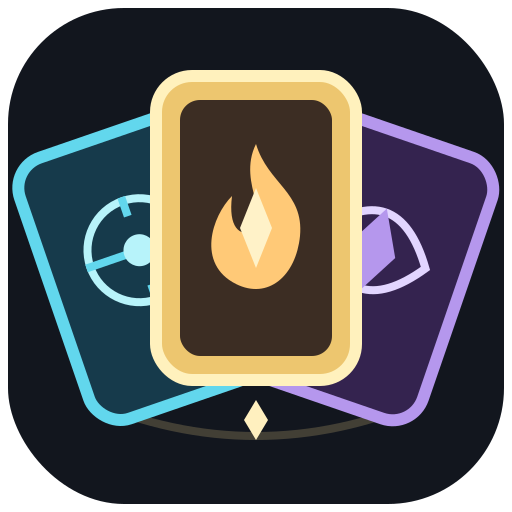
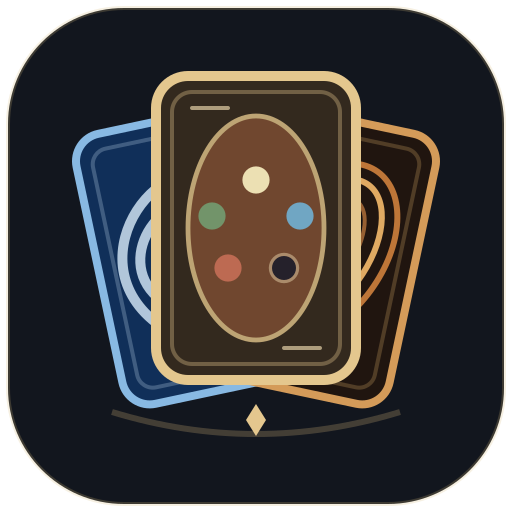
Unify card-back navigation and animated brand; restore Pokémon ambient art

diff --git a/brand.js b/brand.js
@@ -1,4 +1,40 @@
-// Canonical app mark; icon.svg and install PNGs are built from the same SVG.
-const SVG='<svg xmlns="http://www.w3.org/2000/svg" viewBox="0 0 128 128" class="stashy-logo" aria-hidden="true"><rect class="brand-backplate" x="2" y="2" width="124" height="124" rx="29" fill="#12161e"/><path d="M22 100 Q64 118 106 100" fill="none" stroke="#edd18c" stroke-opacity=".22" stroke-width="2"/><g class="brand-card brand-left" transform="rotate(-19 64 98)" style="--fan-from:-19deg;--fan-to:-34deg"><rect x="24" y="25" width="48" height="69" rx="8" fill="#163a4b" stroke="#62d7ed" stroke-width="3"/><circle cx="48" cy="55" r="13" fill="none" stroke="#b7f3fa" stroke-width="2"/><path d="M34 55h28m-14-14v5m0 18v5" stroke="#62d7ed" stroke-width="2"/><circle cx="48" cy="55" r="4" fill="#b7f3fa"/></g><g class="brand-card brand-right" transform="rotate(19 64 98)" style="--fan-from:19deg;--fan-to:34deg"><rect x="56" y="25" width="48" height="69" rx="8" fill="#34234f" stroke="#b597ed" stroke-width="3"/><path d="M66 55q14-20 28 0-14 20-28 0z" fill="none" stroke="#e2d5ff" stroke-width="2"/><path d="m80 44 6 11-6 11-6-11z" fill="#b597ed"/></g><g class="brand-card brand-center" style="--fan-from:0deg;--fan-to:0deg"><rect x="39" y="19" width="50" height="76" rx="9" fill="#edc66f" stroke="#fff1bd" stroke-width="3"/><rect x="45" y="25" width="38" height="64" rx="5" fill="#3c2d23"/><path d="M64 36c3 10 12 12 11 23-1 10-8 16-16 12-10-5-6-17-1-22-1 8 2 10 5 9 6-2-4-12 1-22z" fill="#ffc977"/><path d="m64 47 4 10-4 10-4-10z" fill="#fff2c8"/></g><path d="m64 100 3 5-3 5-3-5z" fill="#fff0bf"/></svg>';
-const animatedSVG=SVG.replace('</svg>',SVG.match(/<g class="brand-card brand-left"[\s\S]*?<\/g>/)[0].replace('brand-left','brand-cycle-left').replace('brand-card ','brand-cycle ')+SVG.match(/<g class="brand-card brand-right"[\s\S]*?<\/g>/)[0].replace('brand-right','brand-cycle-right').replace('brand-card ','brand-cycle ')+'</svg>');
-export const brandMark=(mode="")=>animatedSVG.replace('class="stashy-logo"','class="stashy-logo '+mode.replace(/[^a-z -]/g,"")+' brand-breathing"');
+// One original vector emblem for the app, assistant and install artwork.
+// Motifs echo the three games without squeezing their wordmarks into an icon.
+const SVG = `<svg xmlns="http://www.w3.org/2000/svg" viewBox="0 0 128 128" class="stashy-logo" aria-hidden="true">
+<rect class="brand-backplate" x="2" y="2" width="124" height="124" rx="29" fill="#12161e" stroke="#d8bb7c" stroke-opacity=".22"/>
+<path d="M28 103Q64 114 100 103" fill="none" stroke="#d8bb7c" stroke-opacity=".25" stroke-width="1.5"/>
+<g class="brand-card brand-left" transform="translate(8 0) rotate(-12 64 98)" style="--fan-from:-12deg;--fan-to:-12deg">
+<rect x="24" y="25" width="48" height="69" rx="7" fill="#102f59" stroke="#88b9e3" stroke-width="2"/>
+<rect x="28" y="29" width="40" height="61" rx="4" fill="none" stroke="#d3e9fa" stroke-opacity=".25"/>
+<path d="M37 76C17 56 45 30 59 43C77 60 51 86 37 68C28 56 45 40 55 50" fill="none" stroke="#d9ecfa" stroke-opacity=".8" stroke-width="2.5"/>
+<circle cx="48" cy="59" r="9" fill="#e5e4db" stroke="#142238" stroke-width="1.5"/>
+<path d="M39 59a9 9 0 0 1 18 0z" fill="#b94e48"/>
+<path d="M39 59h18" stroke="#142238" stroke-width="2"/>
+<circle cx="48" cy="59" r="3" fill="#eef4f7" stroke="#142238" stroke-width="1.5"/>
+</g>
+<g class="brand-card brand-right" transform="translate(-8 0) rotate(12 64 98)" style="--fan-from:12deg;--fan-to:12deg">
+<rect x="56" y="25" width="48" height="69" rx="7" fill="#20150f" stroke="#d49b59" stroke-width="2"/>
+<rect x="60" y="29" width="40" height="61" rx="4" fill="none" stroke="#e5b46c" stroke-opacity=".25"/>
+<ellipse cx="80" cy="59" rx="16" ry="25" transform="rotate(24 80 59)" fill="none" stroke="#be7638" stroke-width="1.5"/>
+<ellipse cx="80" cy="59" rx="12" ry="21" transform="rotate(24 80 59)" fill="none" stroke="#e0aa62" stroke-width="1.5"/>
+<ellipse cx="80" cy="59" rx="8" ry="16" transform="rotate(24 80 59)" fill="#100f11" stroke="#976032"/>
+</g>
+<g class="brand-card brand-center" style="--fan-from:0deg;--fan-to:0deg">
+<rect x="39" y="19" width="50" height="76" rx="8" fill="#33291e" stroke="#e4c78e" stroke-width="2.5"/>
+<rect x="43" y="23" width="42" height="68" rx="5" fill="none" stroke="#e4c78e" stroke-opacity=".35"/>
+<ellipse cx="64" cy="57" rx="17" ry="28" fill="#70472f" stroke="#bda474" stroke-width="1.2"/>
+<circle cx="64" cy="45" r="3.4" fill="#ece0b3"/>
+<circle cx="53" cy="54" r="3.4" fill="#72946a"/>
+<circle cx="75" cy="54" r="3.4" fill="#70a6c3"/>
+<circle cx="57" cy="67" r="3.4" fill="#bd6a52"/>
+<circle cx="71" cy="67" r="3.4" fill="#25212b" stroke="#aa8b6b" stroke-width=".8"/>
+<path d="M48 27h9m14 60h9" stroke="#f0dcb1" stroke-opacity=".65" stroke-linecap="round"/>
+</g>
+<path d="m64 101 2.5 4-2.5 4-2.5-4z" fill="#e4c78e"/>
+</svg>`;
+const frontCopy = side => SVG.match(new RegExp(`<g class="brand-card brand-${side}"[\\s\\S]*?<\\/g>`))[0]
+  .replace(`brand-card brand-${side}`, `brand-cycle brand-cycle-${side}`);
+const animatedSVG = SVG.replace('</svg>', `${frontCopy('left')}${frontCopy('right')}</svg>`);
+export const brandStaticMark = () => SVG;
+export const brandMark = (mode = '') => animatedSVG.replace('class="stashy-logo"',
+  `class="stashy-logo ${mode.replace(/[^a-z -]/g, '')} brand-breathing"`);

diff --git a/brand-motion.css b/brand-motion.css
@@ -1,0 +1,56 @@
+/* One compact emblem in the header, Ask, scanner and progress surfaces.
+   Mode classes may size the SVG, but never change its card arrangement. */
+.stashy-logo.brand-breathing { overflow:visible; transform-origin:center; }
+.stashy-logo.brand-breathing .brand-backplate { fill:#12161e; stroke:#edd18c; stroke-opacity:.18; stroke-width:1; }
+.stashy-logo.brand-breathing .brand-card { animation:none; transform-origin:64px 98px; transform-box:view-box; }
+.stashy-logo.brand-breathing .brand-left { transform:translate(8px,0) rotate(-12deg); }
+.stashy-logo.brand-breathing .brand-right { transform:translate(-8px,0) rotate(12deg); }
+.stashy-logo.brand-breathing .brand-center { transform:none; }
+.stashy-logo.brand-breathing .brand-cycle { display:none; pointer-events:none; }
+/* The assistant has an aurora shell; ordinary app navigation keeps its dark plate. */
+:is(.ask-launch,.home-ai-submit),:root[data-theme="light"] :is(.ask-launch,.home-ai-submit) {
+  color:#29243a;
+  background:linear-gradient(115deg,#dfF3ff,#ede4ff,#fff1ce,#dff3ff);
+  background-size:300% 100%;
+  border:1px solid #e4c78e;
+  box-shadow:inset 0 1px 0 #fff9,0 0 12px #c4b2ef30;
+}
+:is(.ask-launch,.home-ai-submit):hover { color:#29243a; border-color:#fff1ce; }
+:is(.ask-launch,.home-ai-submit):focus-visible { outline:2px solid var(--gold); outline-offset:3px; }
+@media (prefers-reduced-motion:no-preference) {
+  :is(.ask-launch,.home-ai-submit) { animation:brand-ai-aurora 7s ease-in-out infinite; }
+  .stashy-logo.brand-breathing { animation:brand-compact-breathe 4.8s ease-in-out infinite; }
+  .stashy-logo.brand-breathing .brand-left { animation:brand-left-rest 18s linear infinite; }
+  .stashy-logo.brand-breathing .brand-right { animation:brand-right-rest 18s linear infinite; }
+  .stashy-logo.brand-breathing .brand-cycle { display:block; transform-origin:64px 98px; transform-box:view-box; opacity:0; }
+  .stashy-logo.brand-breathing .brand-cycle-left { animation:brand-left-front 18s ease-in-out infinite; }
+  .stashy-logo.brand-breathing .brand-cycle-right { animation:brand-right-front 18s ease-in-out infinite; }
+}
+@keyframes brand-ai-aurora { 0%,100% {background-position:0% 50%} 50% {background-position:100% 50%} }
+@keyframes brand-compact-breathe {
+  0%,100% { transform:translateY(0) scale(.98); }
+  50% { transform:translateY(-1px) scale(1.025); }
+}
+/* Hide the matching rear card while its front copy moves: three cards,
+   rather than the old five-card fan with duplicate cards spread out. */
+@keyframes brand-left-rest { 0%,24%,49%,100% {opacity:1} 25%,48% {opacity:0} }
+@keyframes brand-right-rest { 0%,57%,84%,100% {opacity:1} 58%,83% {opacity:0} }
+@keyframes brand-left-front {
+  0%,24%,49%,100% {opacity:0;transform:translate(8px,0) rotate(-12deg)}
+  25%,48% {opacity:1;transform:translate(8px,0) rotate(-12deg)}
+  32%,43% {opacity:1;transform:translate(15px,-4px) rotate(0deg)}
+}
+@keyframes brand-right-front {
+  0%,57%,84%,100% {opacity:0;transform:translate(-8px,0) rotate(12deg)}
+  58%,83% {opacity:1;transform:translate(-8px,0) rotate(12deg)}
+  65%,77% {opacity:1;transform:translate(-17px,-4px) rotate(0deg)}
+}
+@media (prefers-reduced-motion:reduce) {
+  :is(.ask-launch,.home-ai-submit) {animation:none!important;}
+  .stashy-logo.brand-breathing,.stashy-logo.brand-breathing .brand-card,.stashy-logo.brand-breathing .brand-cycle {animation:none!important;}
+  .stashy-logo.brand-breathing .brand-card {opacity:1;}
+  .stashy-logo.brand-breathing .brand-cycle {display:none;}
+}
+@media (forced-colors:active) {
+  :is(.ask-launch,.home-ai-submit) {color:ButtonText!important;background:ButtonFace!important;border-color:ButtonText!important;animation:none!important;}
+}

diff --git a/game-tabs.css b/game-tabs.css
@@ -1,0 +1,68 @@
+/* Shared game navigation: original card-back artwork, cropped away from titles.
+   Keep all sizing in style.css so phone, fold, tablet and scanner layouts agree. */
+.game-tab-mtg { --tab-color:#e1b774; --tab-art:url('./game-tab-mtg.jpg'); --tab-position:50% 65%; --tab-size:115% auto; }
+.game-tab-ygo { --tab-color:#f7ad61; --tab-art:url('./game-tab-ygo.png'); --tab-position:50% 48%; --tab-size:115% auto; }
+.game-tab-ptcg { --tab-color:#ffdc62; --tab-art:url('./game-tab-ptcg.jpg'); --tab-position:50% 53%; --tab-size:155% auto; }
+.game-tabs .game-tab {
+  color:#f1f3f7;
+  background:#151a23;
+  border-color:#ffffff20;
+  box-shadow:inset 0 1px 0 #ffffff0a;
+  text-shadow:0 1px 3px #000,0 0 8px #0009;
+  -webkit-tap-highlight-color:transparent;
+}
+.game-tabs .game-tab::before {
+  background-image:linear-gradient(90deg,#070b12a8,#070b12c7),var(--tab-art);
+  background-size:100% 100%,var(--tab-size);
+  background-position:center,var(--tab-position);
+  background-repeat:no-repeat;
+  opacity:.65;
+  pointer-events:none;
+}
+.game-tabs .game-tab[aria-selected="true"] {
+  color:#fff;
+  background:#151a23;
+  border-color:var(--tab-color);
+  box-shadow:inset 0 1px 0 #ffffff30,inset 0 -1px 0 #0005,0 2px 9px #0003;
+}
+.game-tabs .game-tab[aria-selected="true"]::before {
+  background-image:linear-gradient(90deg,#070b1270,#070b1299),var(--tab-art);
+  opacity:1;
+}
+.game-tabs .game-tab::after {
+  content:"";
+  position:absolute;
+  inset:0;
+  z-index:-1;
+  pointer-events:none;
+  opacity:0;
+  background:linear-gradient(110deg,transparent 25%,#ffffff24 48%,transparent 70%);
+  transform:translateX(-110%);
+}
+.game-tabs .game-tab[aria-selected="true"]::after { animation:game-tab-reveal .55s ease-out both; }
+.game-tabs .game-tab-mark { opacity:.9; }
+.game-tabs .game-tab[aria-selected="true"] .game-tab-mark { opacity:1; }
+.game-tabs .game-tab-light { pointer-events:none; }
+.game-tabs .game-tab:focus-visible { outline:2px solid var(--tab-color); outline-offset:-3px; }
+@media (hover:hover) {
+  .game-tabs .game-tab:hover { color:#fff; border-color:var(--tab-color); background:#151a23; }
+  .game-tabs .game-tab:hover::before { opacity:1; }
+}
+/* Artwork stays dark in light mode, like the physical cards, for white labels. */
+:root[data-theme="light"] .game-tabs .game-tab { color:#f1f3f7; background:#151a23; border-color:#566278; }
+:root[data-theme="light"] .game-tabs .game-tab[aria-selected="true"],
+:root[data-theme="light"] .game-tabs .game-tab:hover { color:#fff; background:#151a23; border-color:var(--tab-color); }
+@keyframes game-tab-reveal {
+  0% { opacity:0; transform:translateX(-110%); }
+  25% { opacity:.8; }
+  100% { opacity:0; transform:translateX(110%); }
+}
+@media (prefers-reduced-motion:reduce) {
+  .game-tabs .game-tab,.game-tabs .game-tab::before { transition:none; }
+  .game-tabs .game-tab[aria-selected="true"]::after { animation:none; }
+}
+@media (forced-colors:active) {
+  .game-tabs .game-tab::before,.game-tabs .game-tab::after { display:none; }
+  :root .game-tabs .game-tab { color:ButtonText!important; background:ButtonFace!important; border-color:ButtonText!important; text-shadow:none; }
+  :root .game-tabs .game-tab[aria-selected="true"] { color:HighlightText!important; background:Highlight!important; border-color:Highlight!important; }
+}

diff --git a/app.js b/app.js
@@ -151,7 +151,9 @@ function updateAmbient() {
     saved = JSON.parse(localStorage.getItem(AMBIENT_KEY) || "{}") || {};
   } catch {}
   const hero = $("#homeHero .hh-art");
-  const src = hero && !hero.hidden && hero.currentSrc ? hero.currentSrc : hero?.getAttribute("src");
+  // Pokémon's artwork surface is a crop wrapper, with the real image inside.
+  const image = hero?.querySelector?.("img") || hero;
+  const src = hero && !hero.hidden && image && !image.hidden ? image.currentSrc || image.getAttribute?.("src") : "";
   if (src && saved[g] !== src) {
     saved[g] = src;
     try {
@@ -1944,6 +1946,8 @@ A.closeSheet = () => S.ui.sheetCtx?.type === "printing-picker" ? printingPicker.
 A.sheetHistoryBack = () => S.ui.sheetCtx?.type === "printing-picker" ? printingPicker.cancel() : restoreSheetHistory();
 A.routeHistoryBack=()=>{const saved=routeTrail.pop();if(!saved || saved.game!==T.game())return;closeSheet(false);go(saved.route);setTimeout(()=>{if(location.hash!==saved.route)return;restoreSheet(saved);window.scrollTo(0,saved.pageScroll);},0);};
 document.addEventListener?.("error",handleArtworkError,true);
+// Refresh after the exact image (or its fallback) loads, without another render.
+document.addEventListener?.("load",e=>{if(e.target?.closest?.("#homeHero"))updateAmbient();},true);
 if(typeof MutationObserver !== "undefined"){
  new MutationObserver(()=>wireSheetBack()).observe($("#sheetBody"),{childList:true,subtree:true});
  new MutationObserver(()=>wireRouteBack()).observe($("#content"),{childList:true});

diff --git a/index.html b/index.html
@@ -7,8 +7,8 @@
 <script src="theme-init.js"></script>
 <meta name="description" content="CardStashy — your Magic: The Gathering, Pokémon and Yu-Gi-Oh! collections, binders and decks in one place.">
 <link rel="manifest" href="manifest.webmanifest">
-<link rel="icon" href="icon.svg?v=3.74.0" type="image/svg+xml">
-<link rel="apple-touch-icon" href="icon-192.png?v=3.74.0">
+<link rel="icon" href="icon.svg?v=3.85.16" type="image/svg+xml">
+<link rel="apple-touch-icon" href="icon-192.png?v=3.85.16">
 <link rel="preconnect" href="https://fonts.googleapis.com">
 <link rel="preconnect" href="https://fonts.gstatic.com" crossorigin>
 <link rel="stylesheet" href="https://fonts.googleapis.com/css2?family=DM+Sans:opsz,wght@9..40,400;9..40,500;9..40,600;9..40,700&family=Manrope:wght@600;700;800&display=swap">
@@ -19,6 +19,8 @@
 <link rel="stylesheet" href="finish-effects.css">
 <link rel="stylesheet" href="sets-ui.css">
 <link rel="stylesheet" href="printing-picker.css">
+<link rel="stylesheet" href="game-tabs.css">
+<link rel="stylesheet" href="brand-motion.css">
 <title>CardStashy</title>
 </head>
 <body data-view="home">

diff --git a/sw.js b/sw.js
@@ -1,5 +1,10 @@
-const CACHE = "cardforge-shell-v240";
+const CACHE = "cardforge-shell-v241";
 const ASSETS = [
+  "./brand-motion.css",
+  "./game-tabs.css",
+  "./game-tab-mtg.jpg",
+  "./game-tab-ygo.png",
+  "./game-tab-ptcg.jpg",
   "./ai-ask-loop.js",
   "./ai-deck-builder.js",
   "./meta-curation.js",

diff --git a/config.js b/config.js
@@ -9,4 +9,4 @@ export const SUPABASE = {
 };
 
 // The app version shown in Settings. Kept equal to package.json by test-version.mjs.
-export const APP_VERSION = "3.85.15";
+export const APP_VERSION = "3.85.16";

diff --git a/scripts/verify-deployed-assets.py b/scripts/verify-deployed-assets.py
@@ -22,6 +22,8 @@ from urllib.request import HTTPRedirectHandler, Request, build_opener
 HOSTS = ("https://cardstashy.com/", "https://cardforge2.deathxcore11.workers.dev/")
 KEY_ASSETS = ("index.html", "config.js", "sw.js")
 MODULES = (
+    "brand-motion.css",
+    "game-tabs.css", "game-tab-mtg.jpg", "game-tab-ygo.png", "game-tab-ptcg.jpg",
     "power.js", "deckpower.js", "insights.js", "builder.js", "planner.js", "deck-optimizer.js", "engine-map.js", "pairing.js", "scouting.js", "formats.js", "goldfish.js", "tier-card.js", "ai-review.js",
     "ai-build-contract.js", "ai-deck-goal.js", "coach-evidence.js", "commander-criteria.js", "commander-strategy.js", "mtg-effects.js",
     "ai-ask-loop.js", "ai-deck-builder.js", "meta-curation.js", "community-curation.css", "set-browser.js", "set-release-metadata.js",
